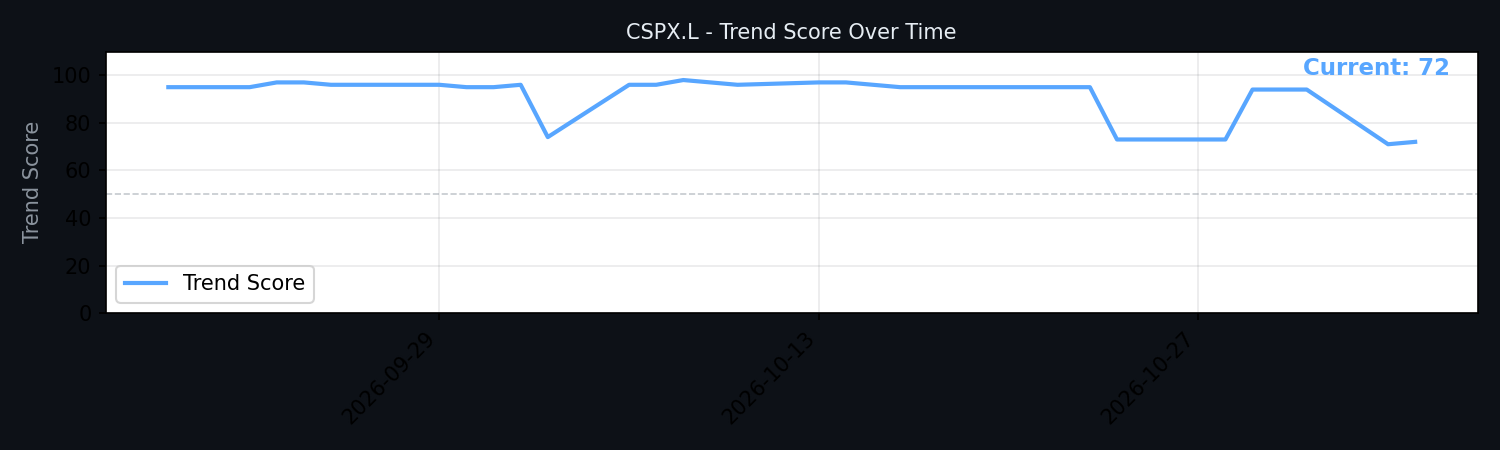
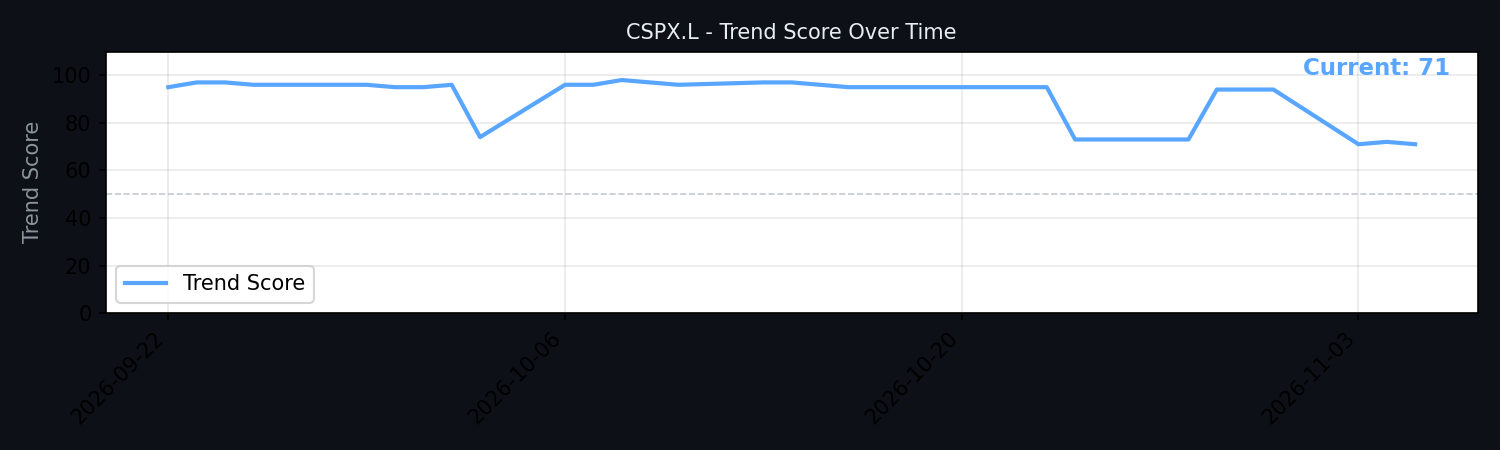
chore: update dashboard snapshot

diff --git a/docs/index.html b/docs/index.html
@@ -62,32 +62,32 @@
 </head>
 <body>
     <h1>📊 Quant Trade Bot</h1>
-    <div class="subtitle">Daily snapshot · 2026-11-04 10:55 (GMT+8)</div>
-
-    <div class="card">
-        <h2>QQQM (Invesco NASDAQ 100 ETF)</h2>
-        <img src="trend_QQQM.png" alt="Trend Score History" style="width:100%; max-width:900px; border-radius:8px; margin-bottom:20px; border:1px solid #30363d;">
-        <div class="row"><span class="label">Latest Close</span><span class="value">$282.23</span></div>
-        <div class="row"><span class="label">Trend Score</span><span class="value">66/100</span></div>
-        <div class="row"><span class="label">Momentum Score</span><span class="value">32/100</span></div>
-        <div class="row"><span class="label">Historical Match</span><span class="value">19 occurrences</span></div>
-        <div class="row"><span class="label">90-day Win Rate</span><span class="value">100.0%</span></div>
-        <div class="row"><span class="label">Suggested Action</span><span class="value"><span class="badge badge-buy">✅ Historically high win rate for this structure. Consider maintaining or slightly increasing your DCA.</span></span></div>
-    </div>
+    <div class="subtitle">Daily snapshot · 2026-11-05 11:14 (GMT+8)</div>
 
     <div class="card">
         <h2>CSPX (iShares Core S&P 500 UCITS ETF)</h2>
         <img src="trend_CSPX.L.png" alt="Trend Score History" style="width:100%; max-width:900px; border-radius:8px; margin-bottom:20px; border:1px solid #30363d;">
-        <div class="row"><span class="label">Latest Close</span><span class="value">$823.57</span></div>
-        <div class="row"><span class="label">Trend Score</span><span class="value">72/100</span></div>
-        <div class="row"><span class="label">Momentum Score</span><span class="value">38/100</span></div>
-        <div class="row"><span class="label">Historical Match</span><span class="value">152 occurrences</span></div>
-        <div class="row"><span class="label">90-day Win Rate</span><span class="value">85.5%</span></div>
+        <div class="row"><span class="label">Latest Close</span><span class="value">$817.05</span></div>
+        <div class="row"><span class="label">Trend Score</span><span class="value">71/100</span></div>
+        <div class="row"><span class="label">Momentum Score</span><span class="value">24/100</span></div>
+        <div class="row"><span class="label">Historical Match</span><span class="value">110 occurrences</span></div>
+        <div class="row"><span class="label">90-day Win Rate</span><span class="value">87.3%</span></div>
+        <div class="row"><span class="label">Suggested Action</span><span class="value"><span class="badge badge-buy">✅ Historically high win rate for this structure. Consider maintaining or slightly increasing your DCA.</span></span></div>
+    </div>
+
+    <div class="card">
+        <h2>QQQM (Invesco NASDAQ 100 ETF)</h2>
+        <img src="trend_QQQM.png" alt="Trend Score History" style="width:100%; max-width:900px; border-radius:8px; margin-bottom:20px; border:1px solid #30363d;">
+        <div class="row"><span class="label">Latest Close</span><span class="value">$284.92</span></div>
+        <div class="row"><span class="label">Trend Score</span><span class="value">68/100</span></div>
+        <div class="row"><span class="label">Momentum Score</span><span class="value">34/100</span></div>
+        <div class="row"><span class="label">Historical Match</span><span class="value">25 occurrences</span></div>
+        <div class="row"><span class="label">90-day Win Rate</span><span class="value">100.0%</span></div>
         <div class="row"><span class="label">Suggested Action</span><span class="value"><span class="badge badge-buy">✅ Historically high win rate for this structure. Consider maintaining or slightly increasing your DCA.</span></span></div>
     </div>
 
     <div class="footer">
-        Updated: 2026-11-04 10:55 (GMT+8) · <a href="https://t.me/ETF_Trend_Monitor" target="_blank">Telegram Channel</a> · <a href="https://github.com/kzyxx11/quant_trade_bot" target="_blank">GitHub</a>
+        Updated: 2026-11-05 11:14 (GMT+8) · <a href="https://t.me/ETF_Trend_Monitor" target="_blank">Telegram Channel</a> · <a href="https://github.com/kzyxx11/quant_trade_bot" target="_blank">GitHub</a>
     </div>
 </body>
 </html>
